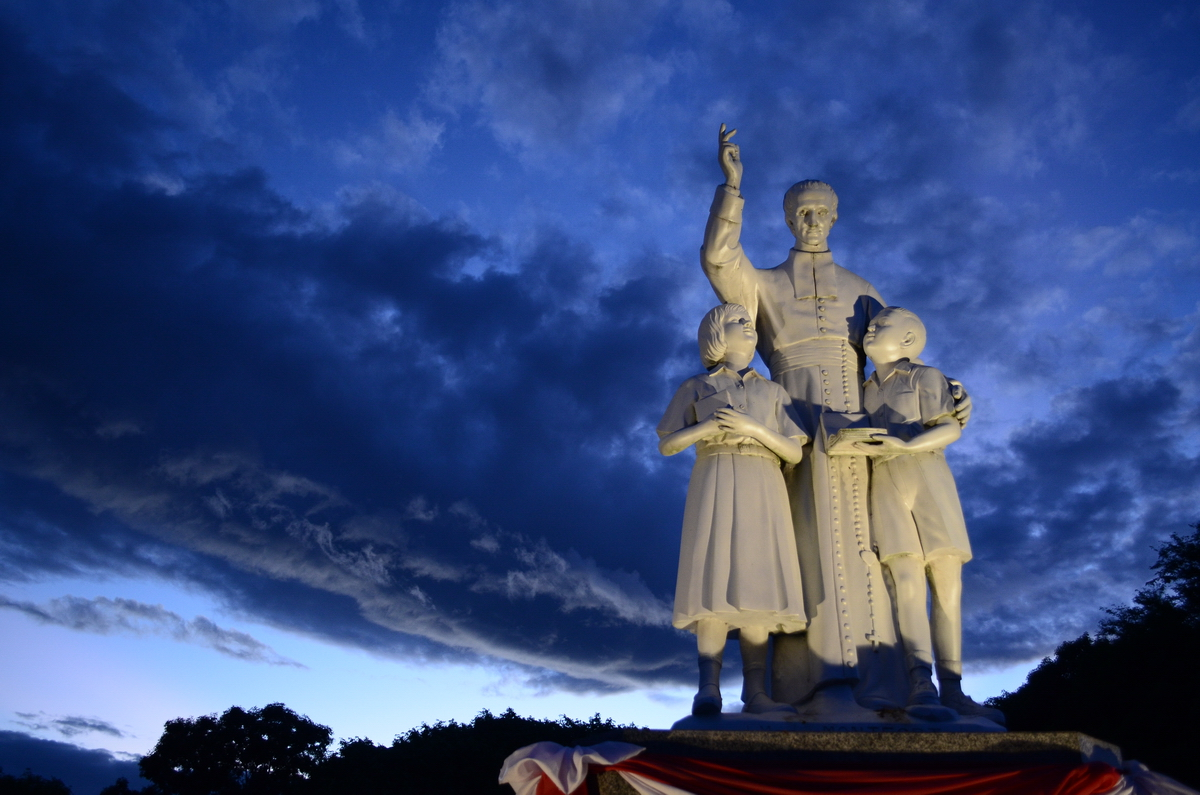
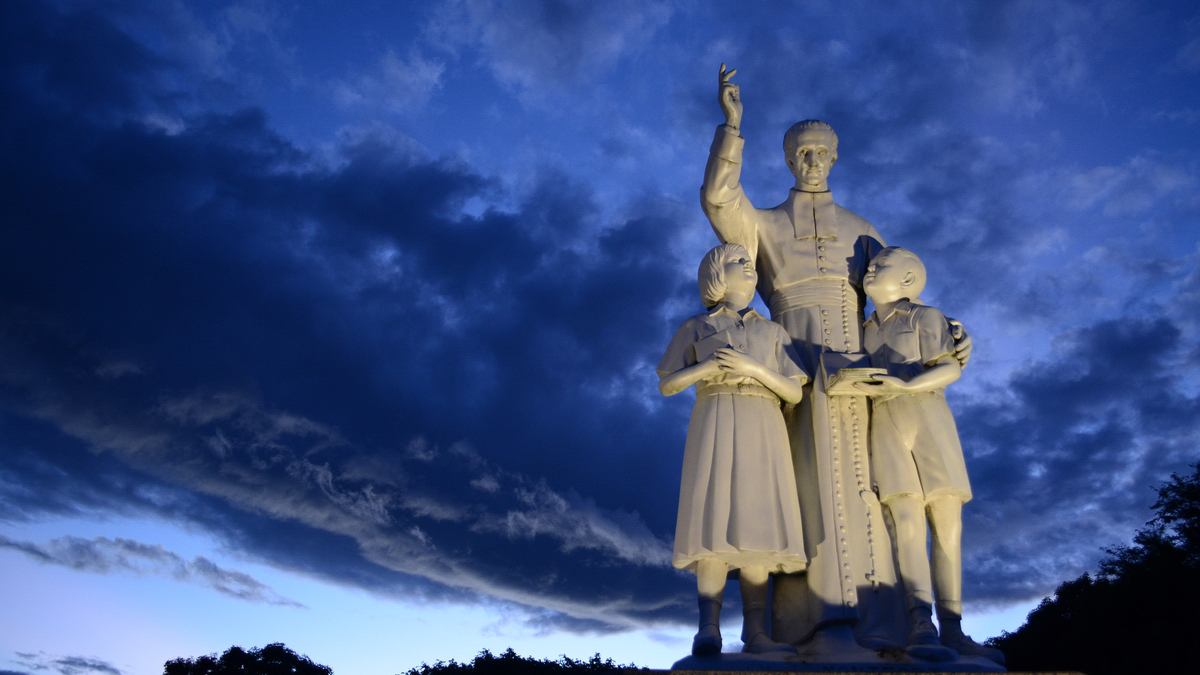
Fix Image to be used in carousel

diff --git a/src/components/MainEntry.js b/src/components/MainEntry.js
@@ -31,13 +31,12 @@ class MainEntry extends React.Component {
     // Get Data From Server
     let regis = false;
     this.prepareTestData(22); // Mockup Data
+    
     if(!regis){
         return (
           <div>
-              <Header></Header>
-              {/*<h1 className="overlayTitleText">Prompt51 Alumni Database</h1> Move to Gallery*/}
-              <Gallery></Gallery>
-
+              <Header />
+              <Gallery/>
               <div className="container">
                   <AddMemberForm></AddMemberForm>
                   <CardContainer datas = {this.state.datas} ></CardContainer>

diff --git a/src/css/style.css b/src/css/style.css
@@ -11,16 +11,14 @@
 @media screen and (max-width: 480px) {
   h1.overlayTitleText{
     color : #000000;
-    position : absolute;;
+    position : absolute;
     margin-left : 2 em;
     z-index: 0;
   }
 }
 
-
-.carousel-inner img {
-  margin: auto;
-  width: 100%;
-  height : 600px;
-  max-height: : 600px;
+.carousel img{
+  object-fit: cover;
+  max-height: 625px;
+  transform: scale(1.4) translateX(10%);
 }
